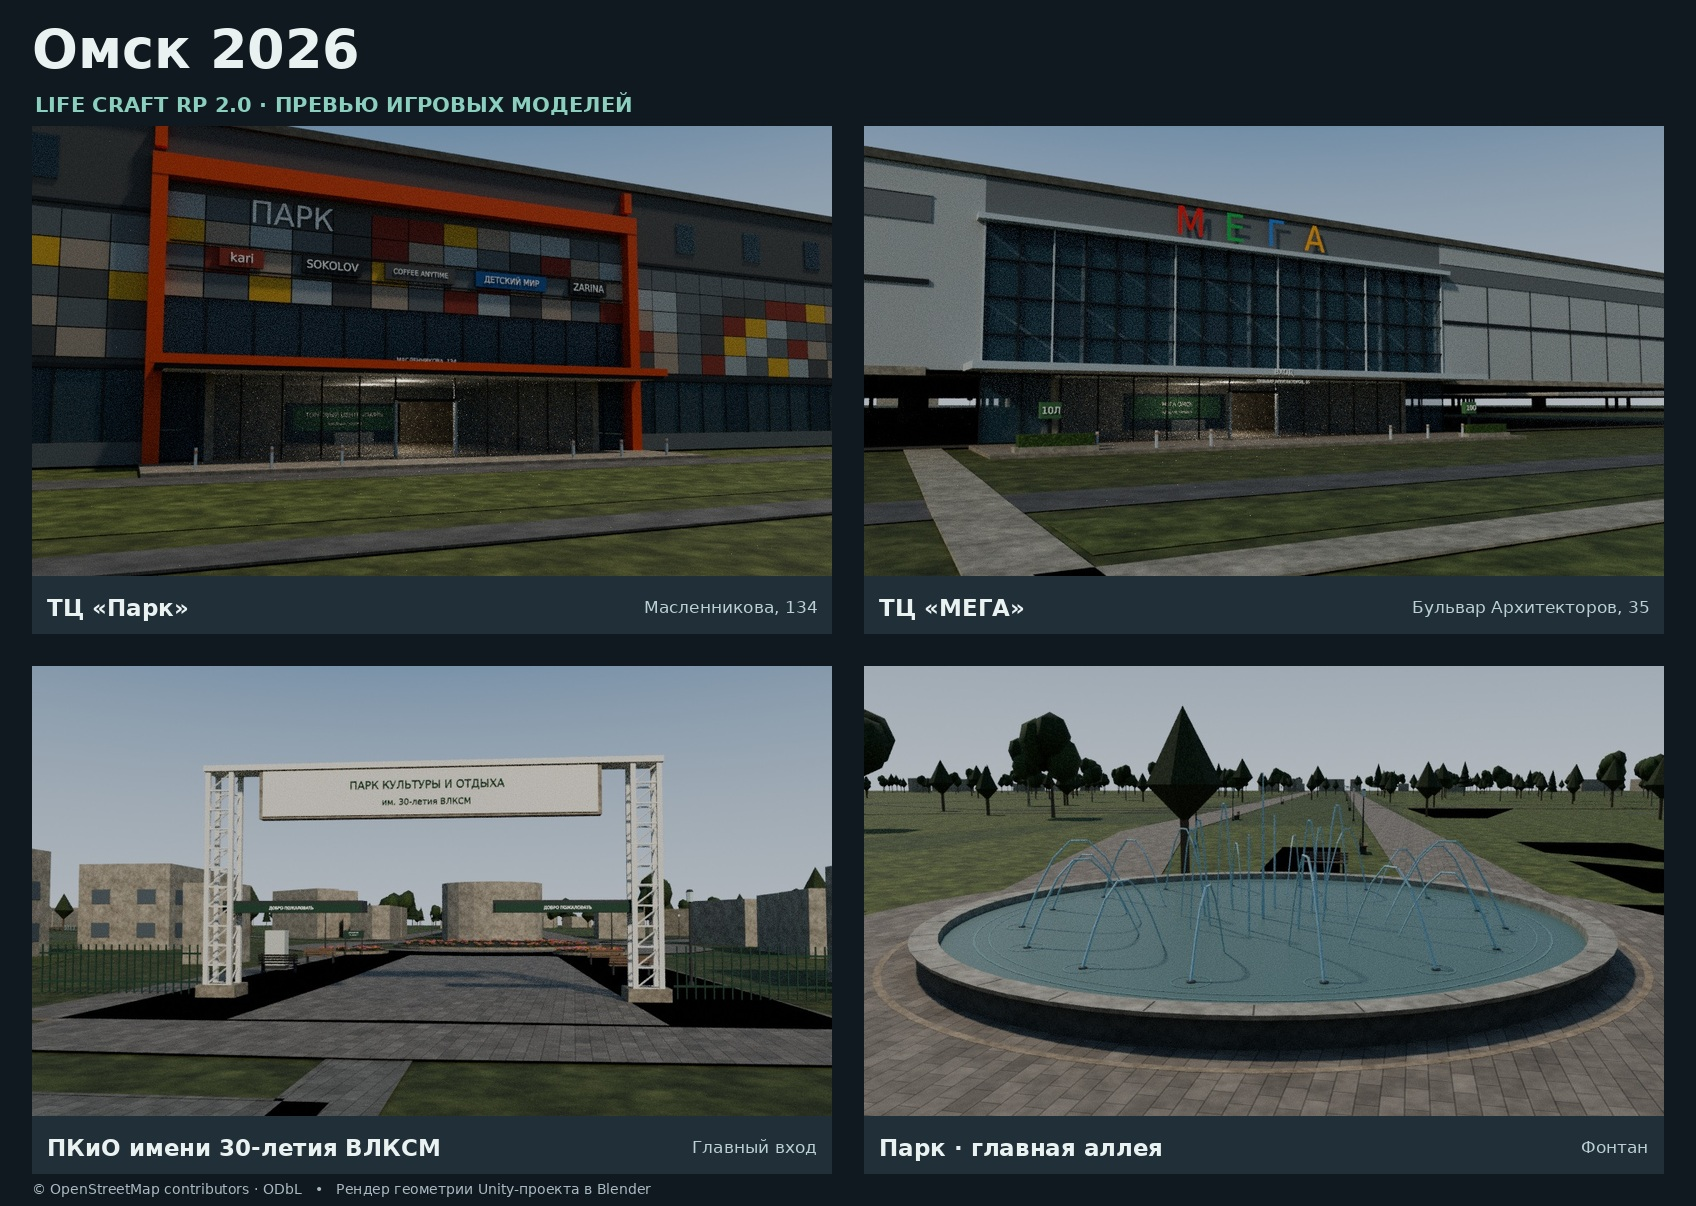
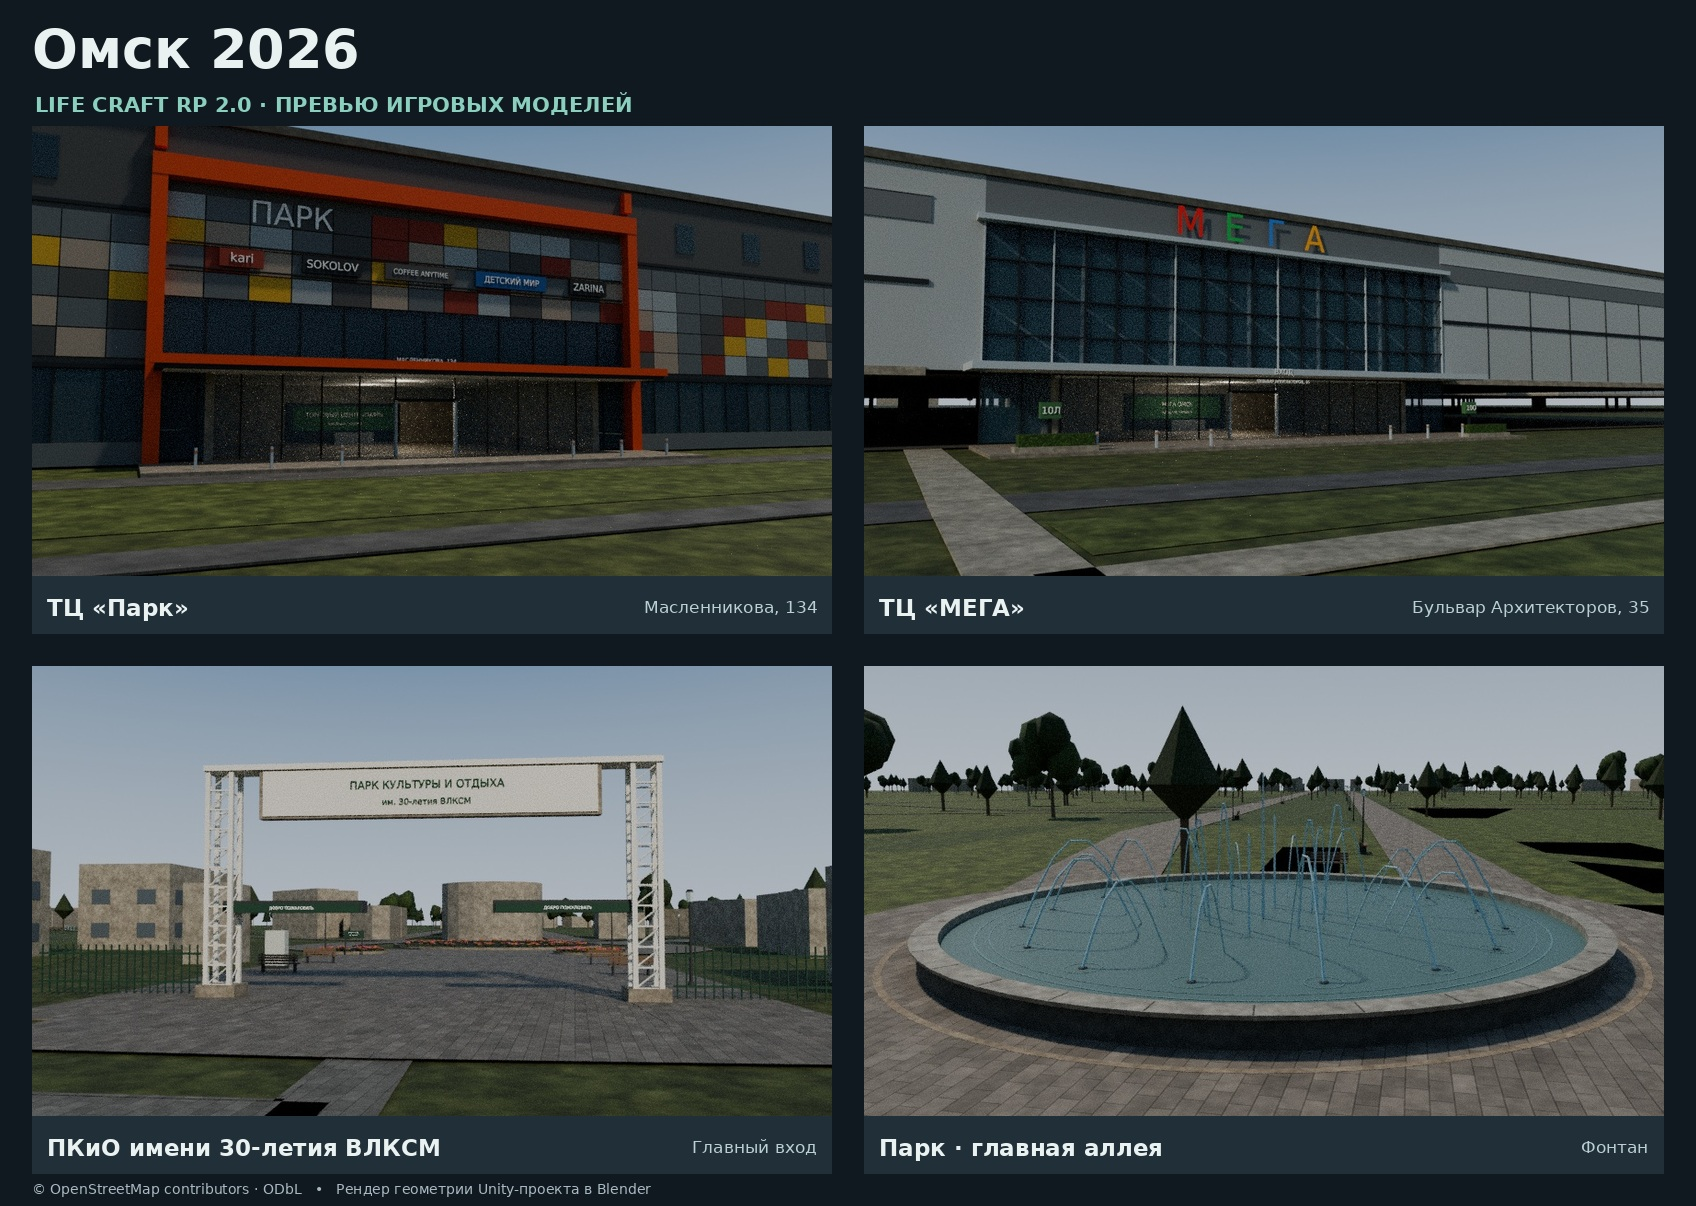
Separate intersecting park paving surfaces

Changed region(s): [[0.0312, 0.767, 0.5, 0.859]]

diff --git a/LifeCraftRP/Assets/Scripts/World/OmskPark.cs b/LifeCraftRP/Assets/Scripts/World/OmskPark.cs
@@ -12,7 +12,7 @@ namespace LifeCraft.World
         private static readonly Vector3 GateCenter = new Vector3(1263.4f,0,-17.7f);
         private static readonly Vector3 GateForward = new Vector3(.9944f,0,.1057f);
         private const string LayoutPath = "Omsk/ParkLayout";
-        private const float PavementHeight = .068f;
+        private const float PavementHeight = .074f;
         private const float TreeCellSize = 220f;
 
         private readonly Dictionary<string,Material> materials = new Dictionary<string,Material>();
@@ -218,9 +218,11 @@ namespace LifeCraft.World
 
         private void DrawRoutes(Route[] routes)
         {
-            foreach (Route route in routes)
+            for (int index=0;index<routes.Length;index++)
             {
-                var points=Positions(route.xz,PavementHeight+.001f*route.style);
+                Route route=routes[index];
+                // Keep overlapping OSM paths and the entrance plaza on distinct planes.
+                var points=Positions(route.xz,PavementHeight+.016f*route.style+.00011f*index);
                 string surface=route.style==0 ? "paver" : route.style==1 ? "asphalt" : "cycling";
                 Ribbon(surface,points,route.width);
                 if (!route.lit)
